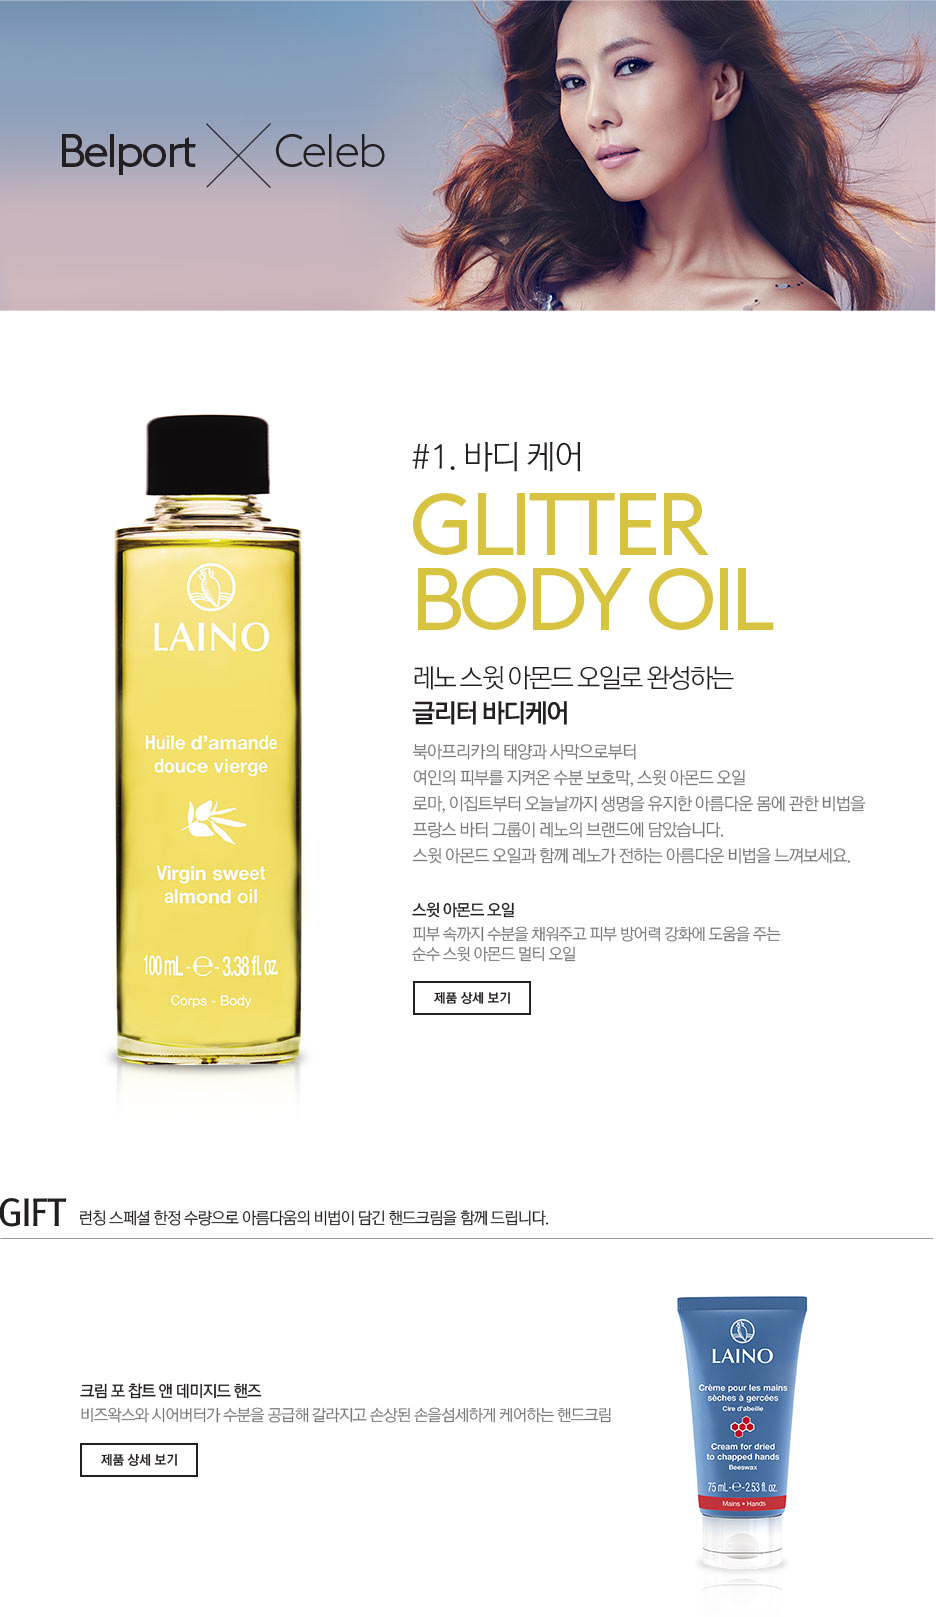
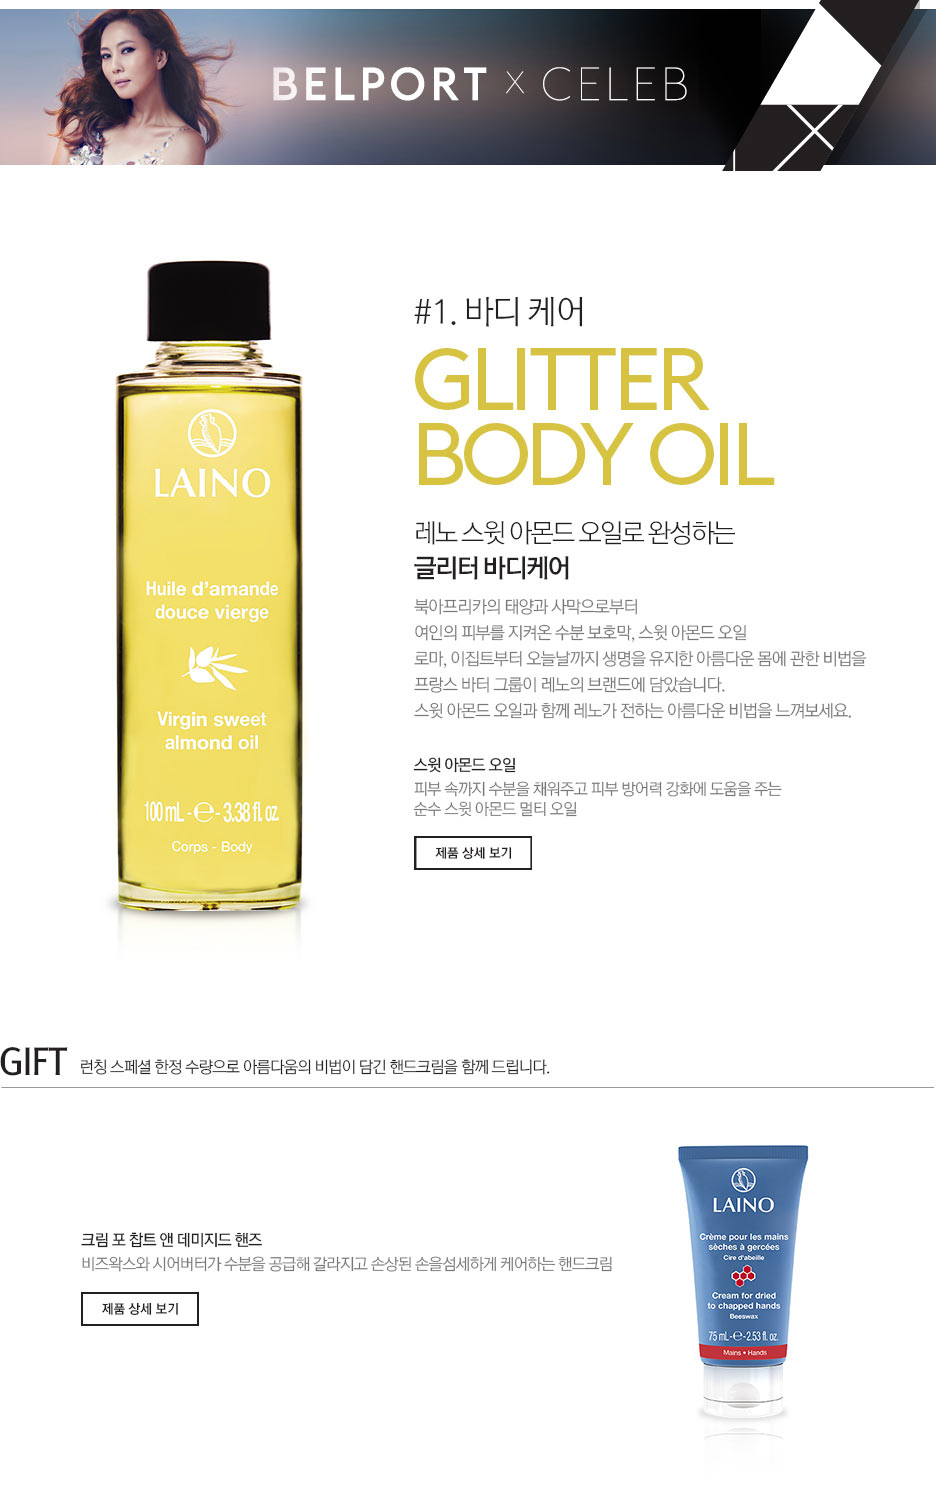
리미티드 에디션 수정

diff --git a/web_page/html/content/sh1.5.2_le_bronners.html b/web_page/html/content/sh1.5.2_le_bronners.html
@@ -50,10 +50,10 @@
 			<div class="product-info">
 				<table summary="상품 상세 정보" class="">
 					<caption class="hide">상품 상세 정보</caption>
-					<colgruop>
-						<col style="width: 127px;"></col>
-						<col style="width: px;"></col>
-					</colgruop>
+					<colgroup>
+						<col style="width:127px;">
+						<col style="width:auto;">
+					</colgroup>
 					<tbody>
 						<tr>
 							<th scope="row">용량</th>
@@ -250,6 +250,7 @@
 			</ul>
 
 			<!-- 리미티드 에디션 상세 -->
+			<!-- 관리자 등록 부분 시작 -->
 			<section class="hide">
 				<h1>Dr.Bronner’s 닥터 브로너스 유기농 케어</h1>
 				<p>set 1. 컴비네이션 스킨 타입, set 2. 드라이 스킨 타입</p>
@@ -287,11 +288,12 @@
 			<map id="links" name="links">
 				<area shape="rect" coords="322,2038,439,2071" href="#" alt="그린티 퓨어 캐스틸 솝 상세보기" />
 				<area shape="rect" coords="478,2477,595,2510" href="#" alt="매직 토너 컴비네이션 스킨 상세 보기" />
-				<area shape="rect" coords="495,2895,582,2928" href="#" alt="체리 블라썸 매직밤 상세 보기" />
+				<area shape="rect" coords="465,2895,582,2928" href="#" alt="체리 블라썸 매직밤 상세 보기" />
 				<area shape="rect" coords="323,3581,440,3614" href="#" alt="샌달우드 자스민 퓨어 캐스틸 솝 상세보기" />
 				<area shape="rect" coords="478,4006,595,4039" href="#" alt="매직 토너 드라이 스킨 상세 보기" />
 				<area shape="rect" coords="469,4432,586,4465" href="#" alt="체리 블라썸 매직밤 상세 보기" />
 			</map>
+			<!-- 관리자 등록 부분 끝 -->
 			
 		</section>
 

diff --git a/web_page/html/content/sh1.5.1_le_laino.html b/web_page/html/content/sh1.5.1_le_laino.html
@@ -50,10 +50,10 @@
 			<div class="product-info">
 				<table summary="상품 상세 정보" class="">
 					<caption class="hide">상품 상세 정보</caption>
-					<colgruop>
-						<col style="width: 127px;"></col>
-						<col style="width: px;"></col>
-					</colgruop>
+					<colgroup>
+						<col style="width:127px;">
+						<col style="width:auto;">
+					</colgroup>
 					<tbody>
 						<tr>
 							<th scope="row">용량</th>
@@ -251,6 +251,7 @@
 
 			
 			<!-- 리미티드 에디션 상세 -->
+			<!-- 관리자 등록 부분 시작 -->
 			<section class="hide">
 				<h1>Belport x Celeb</h1>
 
@@ -272,12 +273,12 @@
 			
 			<img src="../images/shop/le_detail_laino.jpg" alt="" usemap="#links" />
 			<map id="links" name="links">
-				<area shape="rect" coords="413,981,530,1014" href="#" alt="글리터 바디케어 상세 보기" />
-				<area shape="rect" coords="80,1443,197,1476" href="#" alt="크림 포 찹트 앤 데미지드 핸즈 상세 보기" />
+				<area shape="rect" coords="413,836,530,869" href="#" alt="글리터 바디케어 상세 보기" />
+				<area shape="rect" coords="81,1292,197,1325" href="#" alt="크림 포 찹트 앤 데미지드 핸즈 상세 보기" />
 			</map>
-			
-			
-		</section>
+			<!-- 관리자 등록 부분 끝 -->
+
+			</section>
 
 
 

diff --git a/web_page/html/content/sh1.5.3_le_linola.html b/web_page/html/content/sh1.5.3_le_linola.html
@@ -50,10 +50,10 @@
 			<div class="product-info">
 				<table summary="상품 상세 정보" class="">
 					<caption class="hide">상품 상세 정보</caption>
-					<colgruop>
-						<col style="width: 127px;"></col>
-						<col style="width: px;"></col>
-					</colgruop>
+					<colgroup>
+						<col style="width:127px;">
+						<col style="width:auto;">
+					</colgroup>
 					<tbody>
 						<tr>
 							<th scope="row">용량</th>
@@ -251,6 +251,7 @@
 
 			
 			<!-- 리미티드 에디션 상세 -->
+			<!-- 관리자 등록 부분 시작 -->
 			<section class="hide">
 				<h1>Linola Family care 리놀라 패밀리 케어</h1>
 				<p>올가을, 온가족 보습을 책임질 독일 국민 크림!</p>
@@ -274,6 +275,7 @@
 				<area shape="rect" coords="412,1185,529,1218" href="#" alt="스킨밀크 상세보기" />
 				<area shape="rect" coords="81,1661,198,1694" href="#" alt="스킨밀크(샘플) 상세 보기" />
 			</map>
+			<!-- 관리자 등록 부분 끝 -->
 			
 		</section>
 

diff --git a/web_page/html/content/sh1.5.4_le_hurraw.html b/web_page/html/content/sh1.5.4_le_hurraw.html
@@ -50,10 +50,10 @@
 			<div class="product-info">
 				<table summary="상품 상세 정보" class="">
 					<caption class="hide">상품 상세 정보</caption>
-					<colgruop>
-						<col style="width: 127px;"></col>
-						<col style="width: px;"></col>
-					</colgruop>
+					<colgroup>
+						<col style="width:127px;">
+						<col style="width:auto;">
+					</colgroup>
 					<tbody>
 						<tr>
 							<th scope="row">용량</th>

diff --git a/web_page/html/content/sh1.5.5_le_lafresh.html b/web_page/html/content/sh1.5.5_le_lafresh.html
@@ -50,10 +50,10 @@
 			<div class="product-info">
 				<table summary="상품 상세 정보" class="">
 					<caption class="hide">상품 상세 정보</caption>
-					<colgruop>
-						<col style="width: 127px;"></col>
-						<col style="width: px;"></col>
-					</colgruop>
+					<colgroup>
+						<col style="width:127px;">
+						<col style="width:auto;">
+					</colgroup>
 					<tbody>
 						<tr>
 							<th scope="row">용량</th>
